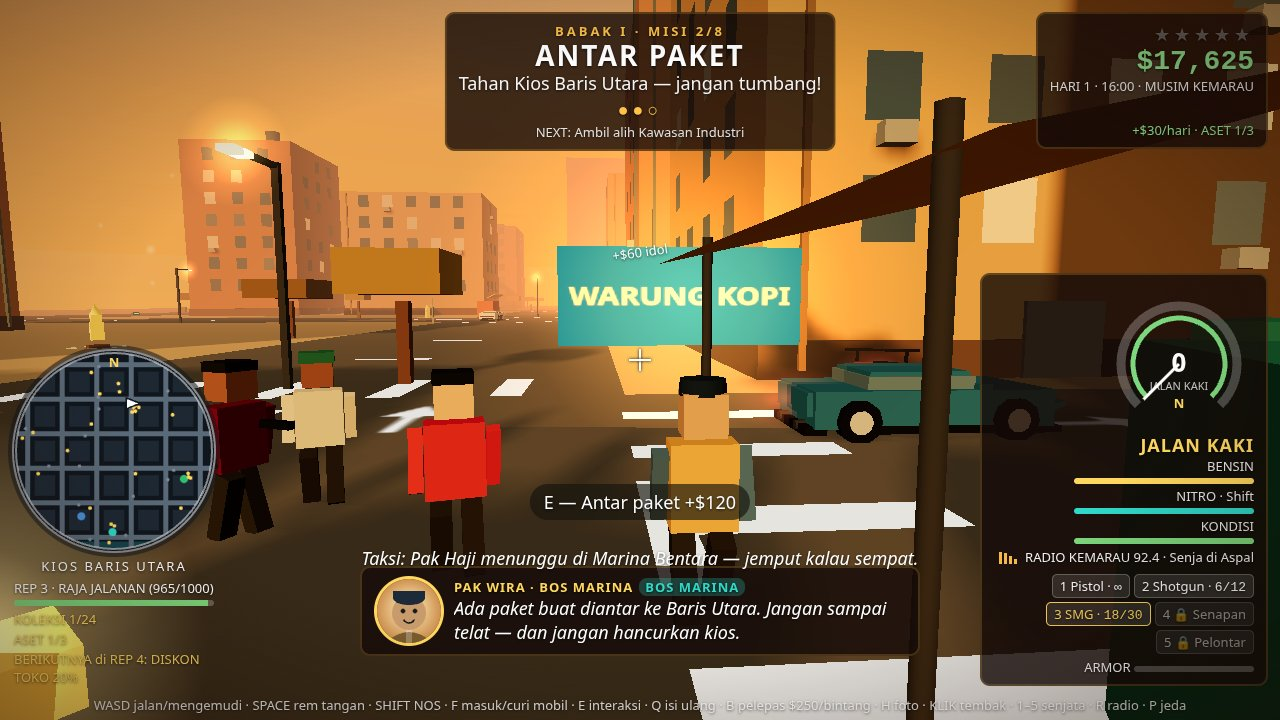
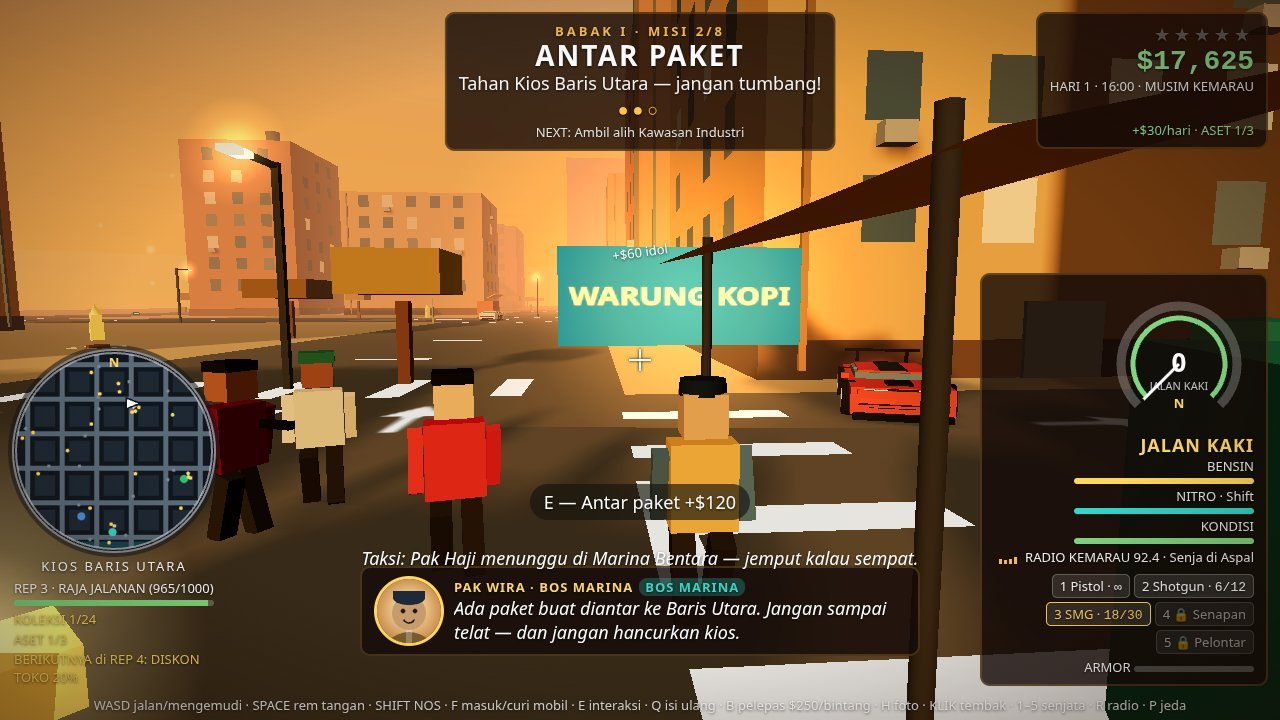
v3 visual fixes: hero car cover, heli cone, drive convoy, story ledger, crosshair

Changed region(s): [[0.5625, 0.4889, 0.8125, 0.6111]]

diff --git a/game/src/shots.js b/game/src/shots.js
@@ -141,11 +141,14 @@ export function stageShot(name, game, atSeconds) {
     for (let i = 0; i < steps; i += 1) {
       driveStraight(G, STEP, 37, 42);
       G.step(STEP);
-      // Stage the convoy on the second-to-last step: 3 cruisers staggered
-      // behind the player (the closest 8 m back reads MENABRAK), the
-      // roadblock sideways across the road ahead.
+      // Stage the convoy on the second-to-last step: two cruisers tight
+      // BEHIND the player (8 m and 11 m back, flanking left/right) so
+      // they read in the pull-back camera with lightbars flashing — both
+      // within MENABRAK range — one ahead as escort, and the roadblock
+      // sideways across the road ahead. (Closer to the camera than this,
+      // the near cruiser slides under the bottom edge of the frame.)
       if (i === steps - 2) {
-        const offsets = [[0, 8], [-6, 18], [6, 28]];
+        const offsets = [[-4, -8], [4, -11], [0, 25]];
         G.police.cruisers.forEach((c, k) => {
           const off = offsets[k % offsets.length];
           c.x = G.player.x + off[0];
@@ -172,11 +175,23 @@ export function stageShot(name, game, atSeconds) {
     G.setShotInput({ active: true, up: true, down: false, left: false, right: false, brake: false, run: false, mouse: false });
     G.step(STEP);
     G.setShotInput({ active: false });
+    // Pull-back camera: 22 m behind and 5.5 m up, so the two cruisers
+    // staged tight behind the player read in frame flanking the CEMPAKA
+    // GT, lightbars flashing — the pursuit is visible, not just a panel
+    // + minimap. G.draw() would reset to the 5 m chase cam (which puts
+    // anything behind the player behind the camera), so render directly.
+    const cam = G.view.camera;
+    cam.position.set(G.player.x, 5.5, G.player.z - 22);
+    cam.lookAt(G.player.x, 1.5, G.player.z + 28);
     // Re-show the mission card (stinger) and the dispatch ticker for the
     // frozen frame: both are live HUD, not posed text.
     G.hud.showStinger(G);
     G.hud.ticker('POLISI: Semua unit — kejar sedan merah di Kawasan Industri!', 60);
-    G.draw();
+    // Hide the dialogue box for the frozen frame: the mission-intro line
+    // (Letkol Rahmat, fired by setIndex) sits bottom-centre and covers
+    // the left cruiser. Dialogue is still proven in the foot/story shots.
+    document.getElementById('dialogue').style.display = 'none';
+    G.view.render();
     window.__shotReady = true;
     return { name, seconds, steps };
   } else if (name === 'heat') {
@@ -244,9 +259,9 @@ export function stageShot(name, game, atSeconds) {
     // collectible / hailable, neither in the driving line.
     stageTaxi(G, 'industrialYard', 28, 122);
     stageCollectible(G, 22, 99);
-    // Pak Wira on the radio, portrait and all: the cover shows the boss
-    // talking while the chase runs. 600 s so the box never times out.
-    G.hud.dialogue('PAK WIRA · BOS MARINA', 'Jangan berhenti. Polisi itu cuma angin — kamu yang punya jalan.', 'wira', 600);
+    // No dialogue on the cover: the Pak Wira box sits bottom-centre and
+    // covers the hero car. The boss still talks in the drive, foot and
+    // story shots — the cover's job is the car and the chase.
     G.hud.toast('', 0.01);
     G.setShotInput({ active: true, up: true, down: false, left: false, right: false, brake: false, run: false, mouse: false });
     G.draw();
@@ -288,28 +303,27 @@ export function stageShot(name, game, atSeconds) {
         }
       }
     }
-    // Helicopter staging: pull it over the road itself, ahead-right of the
-    // player, higher and further out, nose on the player, so it reads as a
-    // helicopter with its spotlight beam on the player — small, lit, in
-    // the upper third of the frame instead of a dark blob against a
-    // building. (At +30 m it was still a black smudge overlapping the
-    // popup; +45 m and 22 m up puts it in clear sky.)
+    // Helicopter staging: pull it in close and low over the road, ahead
+    // of the player, nose on the player — big in the upper third, its
+    // spotlight cone slanting down to the player and the ground pool
+    // under the car, so it reads as a HELICOPTER, not a pale block.
+    // (At +45 m / 22 m up it was a small smudge against the sky.)
     const heli = G.police.heli;
     if (heli) {
-      heli.group.position.set(G.player.x + 45, 22, G.player.z - 14);
+      heli.group.position.set(G.player.x + 26, 15, G.player.z - 9);
       heli.group.lookAt(G.player.x, 0, G.player.z);
     }
     // Hero camera: 12.5 m back, 5.4 m up — the car is the hero now,
     // bottom-centre at a quarter to a third of the frame. The look target
-    // swings east (x+40) and a touch south (z+6) so the sun disc at ~11°
-    // elevation sits in the upper third and the mural stays ahead-right,
-    // while the car stays in frame: looking any higher pushes the car
-    // below the bottom edge. Render directly: G.draw() would reset the
+    // swings east (x+40) and down (y 1.5) so the sun disc at ~11°
+    // elevation sits in the upper third, the mural stays ahead-right,
+    // and the car lifts off the bottom edge instead of sliding under
+    // the dialogue box. Render directly: G.draw() would reset the
     // camera to the chase cam.
     G.setShotInput({ active: false });
     const cam = G.view.camera;
     cam.position.set(G.player.x - 12.5, 5.4, G.player.z + 1.5);
-    cam.lookAt(G.player.x + 40, 5, G.player.z + 6);
+    cam.lookAt(G.player.x + 40, 1.5, G.player.z + 6);
     // Re-show the mission stinger for the frozen frame, and the drift
     // popup the chase really earned (cash 18250 -> 18295, 0.8 s slide)
     // with a 60 s lifetime: popups fade on wall-clock time, and one slow
@@ -319,6 +333,10 @@ export function stageShot(name, game, atSeconds) {
     // makes this re-show read NGEPOT ×2.
     G.hud.showStinger(G);
     G.hud.popups.drift(45, 0.8, 60);
+    // Hide the dialogue box for the frozen frame: the mission-intro line
+    // (Sari, fired by setIndex) sits bottom-centre and covers the hero
+    // car. Dialogue is still proven in the drive, foot and story shots.
+    document.getElementById('dialogue').style.display = 'none';
     G.view.render();
     window.__shotReady = true;
     return { name, seconds, steps };
@@ -350,6 +368,18 @@ export function stageShot(name, game, atSeconds) {
     G.parked[0].z = 96;
     G.parked[0].heading = 1.2;
     G.parked[0].sync();
+    // Clear through-traffic from the frame: a teal Kijang on the x=32.5
+    // lane drove right past the warung and stopped (in screen space)
+    // exactly over the red CEMPAKA GT, hiding it. Teleport any traffic
+    // car near the stall far down its own lane — 60 m radius, so no car
+    // can drive back into the frame during the 2 s sim.
+    for (const c of G.traffic.cars) {
+      if (Math.hypot(c.x - L.x, c.z - L.z) < 60) {
+        if (c.axis === 'x') c.x = c.x > L.x ? 170 : -170;
+        else c.z = c.z > L.z ? 170 : -170;
+        c.sync();
+      }
+    }
     // Glowing drops in frame: a cash bundle and an ammo crate, live.
     G.drops.spawnCash(L.x - 2, L.z + 10, 35);
     G.drops.spawnAmmo(L.x + 3, L.z + 12, 1);
@@ -393,29 +423,35 @@ export function stageShot(name, game, atSeconds) {
     window.__shotReady = true;
     return { name, seconds, steps };
   } else {
-    // story: the Marina handoff. Mission 1 is completed FOR REAL in the
-    // staging (walk to Wira, press E, talk) so the ledger shows true
-    // numbers; then the mission jumps to 8 (BABAK III, red dusk) and Pak
-    // Aska delivers the handoff line. Letterbox bars frame the shot.
-    G.missions.setIndex(0);
+    // story: the Marina handoff. Mission 8 (PANAS TERAKHIR, the finale)
+    // is completed FOR REAL in the staging so the ledger shows the
+    // biggest true numbers — gross $1,000, bill $0, BERSIH +$1,000,
+    // REP +600. (Mission 1's +$150 ledger understated the game.) Then
+    // the mission resets to 8 (BABAK III, red dusk) and Pak Aska
+    // delivers the handoff line. Letterbox bars frame the shot.
+    G.missions.setIndex(7);
     G.state.cash = 250;
     G.state.rep = 0;
     G.state.heat = 0;
-    // Close enough to Wira for the talk step (within 5 m).
-    G.player.setPos(-6, -166, Math.PI);
+    // Start at Plaza Menara: the goto step is already satisfied there.
+    G.player.setPos(0, 0, Math.PI);
     G.draw();
-    // Complete mission 1 live: the goto step is already satisfied at the
-    // marina, so step a few frames for it to advance, THEN press E — the
-    // talk step needs the press on its own step (one-shot action bits).
+    // Step a few frames for the goto to advance to the survive step.
     for (let i = 0; i < 5; i += 1) G.step(STEP);
-    window.dispatchEvent(new window.KeyboardEvent('keydown', { code: 'KeyE' }));
-    for (let i = 0; i < 25; i += 1) G.step(STEP);
-    window.dispatchEvent(new window.KeyboardEvent('keyup', { code: 'KeyE' }));
-    // Mission 8 (BABAK III · MISI 8/8) snaps the light to red dusk.
-    // Re-show the stinger explicitly: no more steps run after this, so
-    // hud.update never gets the chance to notice the mission changed —
-    // without it the card keeps showing the mission the live completion
-    // advanced to (MISI 2/8) instead of MISI 8/8.
+    // Survive 30 s for real: 5 attackers spawn and shoot, so boost health
+    // to 9999 first (they deal ~1.75 dps each in range — ~260 over the
+    // full 30 s would kill a 100-HP player). Restore it after.
+    G.player.health = 9999;
+    for (let i = 0; i < 1800; i += 1) G.step(STEP);
+    G.player.health = 100;
+    // Deliver: teleport to the marina (4 m from the beacon, inside its
+    // 7 m radius) and step a few frames for the deliver to complete.
+    G.player.setPos(-6, -166, Math.PI);
+    for (let i = 0; i < 10; i += 1) G.step(STEP);
+    // Mission 8 is done (index advanced past the last mission); reset to
+    // 8 (BABAK III · MISI 8/8) so the stinger shows the finale. Re-show
+    // the stinger explicitly: no more steps run after this, so hud.update
+    // never gets the chance to notice the mission changed.
     G.missions.setIndex(7);
     G.hud.showStinger(G);
     G.hud.dialogue('PAK ASKA · PENERIMA MARINA', 'Barang sampai, uang jalan. Marina tidak pernah tidur.', 'aska', 600);
@@ -463,6 +499,10 @@ export function stageShot(name, game, atSeconds) {
     // the mission stinger instead of hiding behind it — the sign stands
     // on the same sightline as Aska, so centring on Aska centres the
     // sign behind the card.
+    // The crosshair sits at screen centre — dead on top of the ledger
+    // card ("+" over the Tagihan row). Hide it for the frozen frame;
+    // normal play is untouched (the flag defaults to visible on foot).
+    G.hud.setCrosshairVisible(false);
     const cam = G.view.camera;
     cam.position.set(-24, 3.4, -154);
     cam.lookAt(2, 1.0, -172);

diff --git a/game/src/actors/police.js b/game/src/actors/police.js
@@ -124,7 +124,7 @@ export function createPolice(scene, city, rng) {
     rotor.position.y = 1.3;
     const disc = new THREE.Mesh(
       new THREE.CircleGeometry(4.6, 24),
-      new THREE.MeshBasicMaterial({ color: 0x1a1a1a, transparent: true, opacity: 0.28, side: THREE.DoubleSide, depthWrite: false }),
+      new THREE.MeshBasicMaterial({ color: 0x1a1a1a, transparent: true, opacity: 0.35, side: THREE.DoubleSide, depthWrite: false }),
     );
     disc.rotation.x = -Math.PI / 2;
     disc.position.y = 1.32;
@@ -153,12 +153,12 @@ export function createPolice(scene, city, rng) {
       new THREE.MeshBasicMaterial({ color: 0xff6a5a, transparent: true, opacity: 0.3, depthWrite: false }),
     );
     strobeGlow.position.copy(strobe.position);
-    // Spotlight: a NARROW cone (radius 1.7, not the old 4.0 wash) hung
+    // Spotlight: a NARROW cone (radius 2.0, not the old 4.0 wash) hung
     // under the nose, plus a bright pool of light on the ground where it
     // lands. The beam reads as a searchlight, not a pale fog.
     const spot = new THREE.Mesh(
-      new THREE.ConeGeometry(1.7, 30, 16, 1, true),
-      new THREE.MeshBasicMaterial({ color: 0xfff2b0, transparent: true, opacity: 0.5, side: THREE.DoubleSide, depthWrite: false }),
+      new THREE.ConeGeometry(2.0, 30, 16, 1, true),
+      new THREE.MeshBasicMaterial({ color: 0xfff2b0, transparent: true, opacity: 0.7, side: THREE.DoubleSide, depthWrite: false }),
     );
     spot.position.set(0, -15, 1.6);
     spot.rotation.x = Math.PI;
@@ -175,8 +175,8 @@ export function createPolice(scene, city, rng) {
     scene.add(group);
     // The ground pool: a bright disc that follows the player under the beam.
     const pool = new THREE.Mesh(
-      new THREE.CircleGeometry(4.5, 24),
-      new THREE.MeshBasicMaterial({ color: 0xffe9a8, transparent: true, opacity: 0.35, depthWrite: false }),
+      new THREE.CircleGeometry(5.5, 24),
+      new THREE.MeshBasicMaterial({ color: 0xffe9a8, transparent: true, opacity: 0.5, depthWrite: false }),
     );
     pool.rotation.x = -Math.PI / 2;
     pool.position.y = 0.08;

diff --git a/game/src/hud.js b/game/src/hud.js
@@ -78,6 +78,10 @@ export function createHud() {
   let stingerTimer = 0;
   let tickerTimer = 0;
   let ledgerTimer = 0;
+  // Staging-only crosshair hide (story shot): the crosshair sits at
+  // screen centre, dead on top of the mission ledger. Normal play
+  // always shows it again on foot — update() re-applies this flag.
+  let crosshairHidden = false;
   let lastLedger = null;
   let lastMissionKey = '';
   let lastStepKey = '';
@@ -407,7 +411,7 @@ export function createHud() {
       + slot(3, WEAPONS.smg.name, P.hasSmg, magText('smg'), P.weapon === 'smg')
       + slot(4, WEAPONS.rifle.name, P.hasRifle, magText('rifle'), P.weapon === 'rifle')
       + slot(5, WEAPONS.launcher.name, P.hasLauncher, magText('launcher'), P.weapon === 'launcher');
-    els.crosshair.style.display = P.onFoot ? 'block' : 'none';
+    els.crosshair.style.display = (!crosshairHidden && P.onFoot) ? 'block' : 'none';
     els.locName.textContent = districtName(P.x, P.z);
     drawMinimap(G);
     if (toastTimer > 0) {
@@ -480,6 +484,16 @@ export function createHud() {
     document.body.classList.toggle('photo', !!on);
   }
 
+  // Hide / show the crosshair. Used by the story shot only: the
+  // crosshair is centred on screen, exactly where the mission ledger
+  // card sits, so it prints a "+" over the ledger. update() keeps the
+  // hide in force every frame while the flag is set; normal play never
+  // calls this, so the crosshair is always there on foot.
+  function setCrosshairVisible(visible) {
+    crosshairHidden = !visible;
+    els.crosshair.style.display = visible ? 'block' : 'none';
+  }
+
   // who: display name; portraitKey: a CHARACTERS key ('wira', 'aska', ...).
   // The role chip is teal; the line clamps to 2, inside 24px safe margins.
   function dialogue(who, line, portraitKey = 'wira', seconds = 6) {
@@ -522,5 +536,6 @@ export function createHud() {
   return {
     update, toast, ticker, dialogue, prompt, announce, showScreen, hideScreen,
     popups, els, showLedger, reshowLedger, damageFlash, setPhotoMode, showStinger,
+    setCrosshairVisible,
   };
 }

diff --git a/README.md b/README.md
@@ -176,18 +176,32 @@ game/src/main.js       boot, title / pause screens, live loop
 node serve.ts            # http://localhost:8080
 ```
 
-## Verification (v3 MASSIVE, this session, headless Chromium, software GL)
+## Verification (v3 visual fixes, this session, headless Chromium, software GL)
 
 - All four `?shot=` scenes render at 1280x720 with zero console errors and
   zero requests leaving localhost (three.js loads from game/vendor/).
-  Final sizes: 1-heat.jpg 157,199 B · 2-drive.jpg 148,650 B ·
-  3-foot.jpg 157,440 B · 4-story.jpg 128,085 B — all under the 256 KiB cap.
-  Triangle audit (G.audit()): 9,246 triangles, 123 draw calls, ok=true —
+  Final sizes: 1-heat.jpg 150,973 B · 2-drive.jpg 151,871 B ·
+  3-foot.jpg 157,309 B · 4-story.jpg 129,551 B — all under the 256 KiB cap.
+  Triangle audit (G.audit()): 9,150 triangles, 119 draw calls, ok=true —
   inside the 150k budget.
-- 8/8 missions complete end to end in headless CDP tests, plus 1 race win,
-  3 fares, garage buy + upgrade, property buy + sleep collect, 3-star
-  evasion, heli spawn, and a save/load round-trip on the v3 schema.
-- `main.ts` runs clean: preflight ok, dossier written.
+- Visual fixes verified by eye on the captures: cover shows the red
+  CEMPAKA GT mid-drift with the helicopter, spotlight cone and ground pool
+  clear and no dialogue box over the car; drive shows two cruisers tight
+  behind the player (BAYU 9 m MENABRAK) with the dial at 151; foot shows
+  the red CEMPAKA GT parked by the warung (WARUNG KOPI, ASET 1/3); story
+  shows the M8 ledger live — PANAS TERAKHIR SELESAI, Hasil +$1,000 /
+  Tagihan −$0 / REP +600 / BERSIH +$1,000 — with Pak Aska's line in full
+  and no crosshair over the ledger.
+- 8/8 missions complete end to end in headless CDP tests with exact
+  rewards (M1 +$150/+100, M2 +$200/+150, M3 +$300/+200, M4 +$350/+250,
+  M5 +$400/+300, M6 +$450/+300, M7 +$660/+405, M8 +$1,000/+600), plus
+  1 race win, 3 fares, garage buy (MURAI $960) + engine/turbo upgrades,
+  property buy + sleep collect, 3-star evasion (heat 3→2), heli spawn at
+  heat 4, and a save/load round-trip on the v3 schema. E double-fire fix
+  re-verified: E at the marina talk target completes M1 (+$150) without
+  buying SLIP MARINA (cash $25,000 → $25,150, usaha 0).
+- `main.ts` runs clean: preflight ok (cover 1-heat.jpg, 4 screenshots,
+  game 35 files / 966 KiB), dossier written.
 - Live play verified: title → start → walk → F enters the CEMPAKA GT →
   drive → F exits → click shoots → Q reloads → P pauses and resumes.
 
